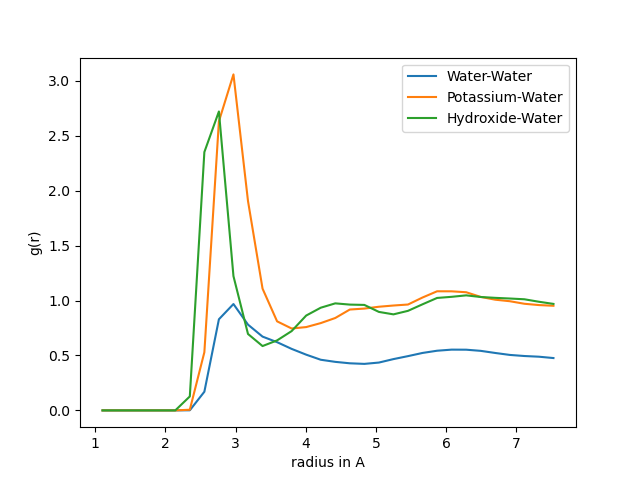
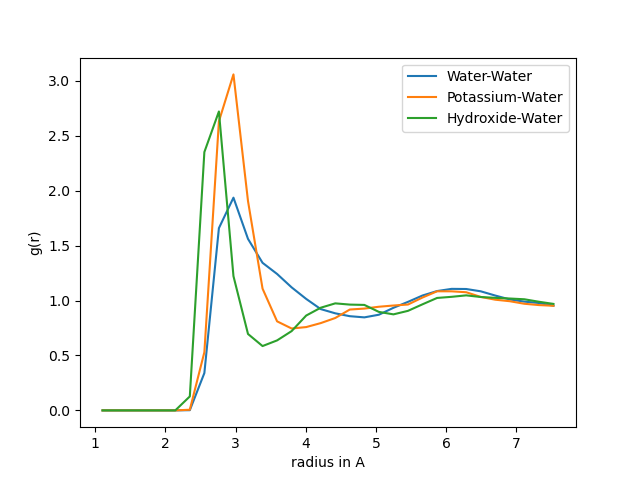
rdfs are added completely

diff --git a/post-processing scripts/KOH systems/mpi_python.py b/post-processing scripts/KOH systems/mpi_python.py
@@ -303,7 +303,7 @@ class Prot_Hop:
         if self.rank == 0:
             print('Time calculating distances', time.time() - self.tstart)
 
-    def rdf_compute_all(self, n, nb=64, r_max=None):
+    def rdf_compute_all(self, n, nb=32, r_max=None):
         # RDF startup scheme
         if n == 0:
             # set standard maximum rdf value
@@ -369,18 +369,18 @@ class Prot_Hop:
         self.r_cent = (self.r[:-1] + self.r[1:])/2  # central point of rdf bins
         rescale_geometry = (4*np.pi*self.r_cent**2)*(self.r[1] - self.r[0])  # 4*pi*r*dr
         
-        self.rdf_H2OH2O *= (self.L**3)/(self.rdf_sample_counter*rescale_geometry*self.N_H2O*(self.N_H2O - 1)*self.size)  # rdf*L_box^3/(n_sample*n_interactions*geometry_rescale/n_cores)
+        self.rdf_H2OH2O *= (self.L**3)/(self.rdf_sample_counter*rescale_geometry*self.N_H2O*(self.N_H2O - 1)*0.5*self.size)  # rdf*L_box^3/(n_sample*n_interactions*geometry_rescale/n_cores)
         self.rdf_OHH2O *= (self.L**3)/(self.rdf_sample_counter*rescale_geometry*self.N_OH*self.N_H2O*self.size)
         self.rdf_KOH *= (self.L**3)/(self.rdf_sample_counter*rescale_geometry*self.N_OH*self.N_K*self.size)
         self.rdf_KH2O *= (self.L**3)/(self.rdf_sample_counter*rescale_geometry*self.N_H2O*self.N_K*self.size)
         if self.N_K > 1:  # only ion-ion self interactions if more than 1 is there
-            self.rdf_OHOH *= (self.L**3)/(self.rdf_sample_counter*rescale_geometry*self.N_OH*(self.N_OH - 1)*self.size)  
-            self.rdf_KK *= (self.L**3)/(self.rdf_sample_counter*rescale_geometry*self.N_K*(self.N_K - 1)*self.size)
+            self.rdf_OHOH *= (self.L**3)/(self.rdf_sample_counter*rescale_geometry*self.N_OH*(self.N_OH - 1)*0.5*self.size)  
+            self.rdf_KK *= (self.L**3)/(self.rdf_sample_counter*rescale_geometry*self.N_K*(self.N_K - 1)*0.5*self.size)
         if self.cheap is False:
             self.rdf_HOH *= (self.L**3)/(self.rdf_sample_counter*rescale_geometry*self.N_H*self.N_OH*self.size)
             self.rdf_HH2O *= (self.L**3)/(self.rdf_sample_counter*rescale_geometry*self.N_H*self.N_H2O*self.size)
             self.rdf_HK *= (self.L**3)/(self.rdf_sample_counter*rescale_geometry*self.N_H*self.N_K*self.size)
-            self.rdf_HH *= (self.L**3)/(self.rdf_sample_counter*rescale_geometry*self.N_H*(self.N_H - 1)*self.size)
+            self.rdf_HH *= (self.L**3)/(self.rdf_sample_counter*rescale_geometry*self.N_H*(self.N_H - 1)*0.5*self.size)
         
         # Then communicate these to main core. 
         self.rdf_H2OH2O = self.comm.reduce(self.rdf_H2OH2O, op=MPI.SUM)
@@ -397,8 +397,7 @@ class Prot_Hop:
             self.rdf_HH2O = self.comm.reduce(self.rdf_HH2O, op=MPI.SUM, root=0)
             self.rdf_HK = self.comm.reduce(self.rdf_HK, op=MPI.SUM, root=0)
             self.rdf_HH = self.comm.reduce(self.rdf_HH, op=MPI.SUM, root=0)
-   
-        print('rank', self.rank, 'array', self.rdf_H2OH2O)
+
         # Stich together correctly on main cores
         if self.rank == 0:
             self.stitching_together_main()
@@ -462,7 +461,9 @@ class Prot_Hop:
         if self.rank == 0:
             print('time to completion',  time.time() - self.tstart)
             if self.size == 1:
-                np.savez("/Users/vlagerweij/Documents/TU jaar 6/Project KOH(aq)/Repros/Quantum_to_Transport/post-processing scripts/KOH systems/test_output/single_core.npz", OH_i=self.OH_i, OH=self.OH, H2O_i=self.H2O_i, H2O=self.H2O)
+                np.savez("/Users/vlagerweij/Documents/TU jaar 6/Project KOH(aq)/Repros/Quantum_to_Transport/post-processing scripts/KOH systems/test_output/single_core.npz",
+                         OH_i=self.OH_i, OH=self.OH, H2O_i=self.H2O_i, H2O=self.H2O,  # tracking OH-
+                         r_rdf=self.r_cent, rdf_H2OH2O=self.rdf_H2OH2O, rdf_OHH2O=self.rdf_OHH2O, rdf_KH2O=self.rdf_KH2O)  # sensing the rdf
                 
                 path = r'C:\Users\vlagerweij\Documents\TU jaar 6\Project KOH(aq)\Repros\Quantum_to_Transport\post-processing scripts\KOH systems\figures_serial'
                 plt.plot(self.OH_i)             
@@ -504,7 +505,13 @@ class Prot_Hop:
                     print("Indexing H2O between multicore and single core arrays differs more than acceptable")
                 if np.allclose(self.H2O, loaded['H2O'], rtol=1e-05, atol=1e-08, equal_nan=False) == False:
                     print("Positions H2O between multicore and single core arrays differs more than acceptable")
-                
+                if np.allclose(self.rdf_H2OH2O, loaded['rdf_H2OH2O']) == False:
+                    print("RDF H2O-H2O between multicore and single core arrays differs more than acceptable")
+                if np.allclose(self.rdf_OHH2O, loaded['rdf_OHH2O']) == False:
+                    print("RDF OH-H2O between multicore and single core arrays differs more than acceptable")
+                if np.allclose(self.rdf_KH2O, loaded['rdf_KH2O']) == False:
+                    print("RDF K-H2O between multicore and single core arrays differs more than acceptable")
+                    
             
                 path = r'C:\Users\vlagerweij\Documents\TU jaar 6\Project KOH(aq)\Repros\Quantum_to_Transport\post-processing scripts\KOH systems\figures_mpi'
 
@@ -544,7 +551,7 @@ class Prot_Hop:
                 plt.legend()
                 plt.xlabel('radius in A')
                 plt.ylabel('g(r)')
-                plt.savefig(path + r'\rdf_H2OH2O')    
+                plt.savefig(path + r'\rdf_H2OH2O')
         
         
 
@@ -553,4 +560,4 @@ class Prot_Hop:
 # Traj = Prot_Hop(r"/mnt/c/Users/vlagerweij/Documents/TU jaar 6/Project KOH(aq)/Repros/RPBE_Production/MLMD/100ps_Exp_Density/i_1", dt=0.5)
 # Traj = Prot_Hop(r"/Users/vlagerweij/Documents/TU jaar 6/Project KOH(aq)/Repros/RPBE_Production/MLMD/100ps_Exp_Density/i_1", dt=0.5)
 # Traj = Prot_Hop(r"/Users/vlagerweij/Documents/TU jaar 6/Project KOH(aq)/Repros/RPBE_Production/AIMD/10ps/i_1/", dt=0.5)
-# Traj = Prot_Hop(r"/Users/vlagerweij/Documents/TU jaar 6/Project KOH(aq)/Repros/Quantum_to_Transport/post-processing scripts/KOH systems/test_output", dt=0.5)
+Traj = Prot_Hop(r"/Users/vlagerweij/Documents/TU jaar 6/Project KOH(aq)/Repros/Quantum_to_Transport/post-processing scripts/KOH systems/test_output", dt=0.5)

diff --git a/post-processing scripts/KOH systems/testcase.py b/post-processing scripts/KOH systems/testcase.py
@@ -1,36 +1,80 @@
-from mpi4py import MPI
 import numpy as np
+import matplotlib.pyplot as plt
+import scipy as sp
 
-comm = MPI.COMM_WORLD
-rank = comm.Get_rank()
-size = comm.Get_size()
-
-# # Assuming self.rdf is a numpy array with equal sizes on each core
-# # Replace this with your actual array
-# rdf = (rank + 1)*np.array([1, 2, 3, 4, 5])  # Example array
-
-# # Perform local sum on each process
-# local_sum = rdf
-
-# # Use MPI Reduce to sum the arrays across all processes
-# global_sum = np.zeros_like(local_sum)
-# comm.Reduce(local_sum, global_sum, op=MPI.SUM, root=0)
+path = r'C:\Users\vlagerweij\Documents\TU jaar 6\Project KOH(aq)\Progress_meeting_14/Figures'
 
 
-# if rank == 0:
-#     local_sum = global_sum/float(size)
-#     print(f"Process {rank}: Local sum = {local_sum}, Global sum = {global_sum}")
-# else:
-#     print(f"Process {rank}: Local sum = {local_sum}")
+loaded = np.load("/Users/vlagerweij/Documents/TU jaar 6/Project KOH(aq)/Repros/Quantum_to_Transport/post-processing scripts/KOH systems/test_output/single_core.npz")
 
-rdf = (rank + 1)*np.array([1, 2, 3, 4, 5])  # Example array
+r = loaded['r_rdf']
+rdf_H2OH2O = loaded['rdf_H2OH2O']
+rdf_KH2O = loaded['rdf_KH2O']
+rdf_OHH2O = loaded['rdf_OHH2O']
 
-# Use MPI Reduce to sum the arrays across all processes
-rdf = comm.reduce(rdf, op=MPI.SUM, root=0)
+rdf_mancinelli = np.array([[0.12749, -0.00058], [0.37092, -0.00058], [0.61435, -0.00058],
+                           [0.85777, -0.00058], [1.10120, -0.00058], [1.34463, -0.00058],
+                           [1.58806, -0.00058], [1.83148, -0.00058], [2.07491, -0.00058],
+                           [2.30263, -0.00045], [2.46575, 0.07954], [2.51370, 0.31026],
+                           [2.58219, 0.85671], [2.62329, 1.37583], [2.67808, 1.99211],
+                           [2.73973, 2.20158], [2.80137, 2.10747], [2.89041, 1.80389],
+                           [2.96575, 1.53066], [3.04110, 1.34244], [3.13500, 1.24658],
+                           [3.30238, 1.17096], [3.52762, 1.13962], [3.81407, 1.09849],
+                           [4.05928, 1.04909], [4.29492, 0.99549], [4.56651, 0.93906],
+                           [4.83488, 0.90981], [5.04074, 0.90822], [5.30229, 0.91826],
+                           [5.52386, 0.92144], [5.79138, 0.96152], [6.04080, 1.01770],
+                           [6.27824, 1.05450], [6.52728, 1.06444], [6.76315, 1.05641],
+                           [7.01377, 1.03596], [7.27523, 1.00858], [7.53414, 0.98555],
+                           [7.66981, 0.98091]])
 
+rdf_zhang = np.array([[2.21355, -0.00355], [2.43671, 0.04415], [2.49844, 0.20121], [2.60436, 0.88999],
+                      [2.64174, 1.46971], [2.68536, 1.88871], [2.72099, 2.12496], [2.77446, 2.26290],
+                      [2.86953, 1.99763], [2.90112, 1.85733], [2.92524, 1.75454], [2.95540, 1.65592],
+                      [3.00365, 1.53229], [3.05190, 1.43089], [3.11824, 1.33306], [3.26902, 1.24322],
+                      [3.48615, 1.16265], [3.70327, 1.07375], [3.99880, 0.98232], [4.31846, 0.93841],
+                      [4.90349, 0.90928], [5.27743, 0.87989], [5.59106, 0.95564], [5.90468, 1.04155],
+                      [6.33516, 1.07026], [6.64762, 1.04486], [7.02650, 1.00105], [7.40043, 0.97174],
+                      [7.73215, 0.96764]])
 
-if rank == 0:
-    # local_sum = global_sum/float(size)
-    print(f"Process {rank}: Local sum = {rdf}")
-else:
-    print(f"Process {rank}: Local sum = {rdf}")
+rdf_soper = np.array([[2.26689, 0.00000], [2.43605, 0.09669], [2.49248, 0.32416], [2.52293, 0.54030],
+                      [2.54891, 0.82825], [2.56758, 1.12442], [2.58991, 1.46153], [2.63360, 1.84942],
+                      [2.66293, 2.45931], [2.73859, 2.73043], [2.84950, 2.14197], [2.94513, 1.53789],
+                      [3.04966, 1.10205], [3.23295, 0.84644], [3.98439, 1.02139], [4.63663, 1.13768],
+                      [5.13032, 0.94686], [5.71760, 0.89316], [6.22492, 0.99334], [6.77574, 1.06118],
+                      [7.38147, 0.99939]])
+
+rdf_heuft = np.array([[2.16393, -0.00188], [2.38604, 0.09572], [2.46219, 0.40353], [2.50661, 0.70008],
+                      [2.62084, 1.55593], [2.67160, 1.90128], [2.72237, 2.05143], [2.77314, 2.08709],
+                      [2.84929, 1.91254], [2.93496, 1.63476], [3.03014, 1.40578], [3.20148, 1.25563],
+                      [3.35695, 1.15991], [3.57271, 1.03791], [3.89635, 1.03416], [4.31200, 1.05293],
+                      [4.57536, 1.03228], [4.93707, 0.94970], [5.32417, 0.95721], [5.75568, 1.00413],
+                      [6.18086, 1.03041], [6.72660, 1.06794]])
+
+def smoothen_rdfs(r, rdf, step):
+    r_small = np.arange(start=r[0], stop=r[-1], step=step)
+    g = sp.interpolate.CubicSpline(r, rdf)
+    g = g(r_small)
+    return r_small, g
+
+g_H2OH2O = smoothen_rdfs(r, rdf_H2OH2O, 0.01)[1]
+g_KH2O = smoothen_rdfs(r, rdf_KH2O, 0.01)[1]
+r, g_OHH2O = smoothen_rdfs(r, rdf_OHH2O, 0.01)
+
+r_m, g_m = smoothen_rdfs(rdf_mancinelli[:, 0], rdf_mancinelli[:, 1], 0.01)
+r_z, g_z = smoothen_rdfs(rdf_zhang[:, 0], rdf_zhang[:, 1], 0.01)
+r_s, g_s = smoothen_rdfs(rdf_soper[:, 0], rdf_soper[:, 1], 0.01)
+r_h, g_h = smoothen_rdfs(rdf_heuft[:, 0], rdf_heuft[:, 1], 0.01)
+
+plt.figure()
+plt.plot(r, g_H2OH2O, label='This Work, 110:12 (1:9.2)')
+plt.plot(r_h, g_h, label='PhD Thesis Heuft (UvA), 113:12 LiOH (1:9.4)')
+plt.plot(r_m, g_m, label='Mancinelli experimental 1:10 KCl(aq)')
+plt.plot(r_z, g_z, label='Zhang DFT 1:10 NaCl(aq)') 
+plt.plot(r_s, g_s, label='Soper experimental Water pure')
+# plt.plot(r, g_KH2O, label='Potassium-Water')
+# plt.plot(r, g_OHH2O, label='Hydroxide-Water')
+plt.legend()
+plt.xlabel('radius in A')
+plt.ylabel('g(r) of Water-Water')
+plt.xlim(2.3, 7.5)
+plt.savefig(path + r'\rdfs_compare')    
